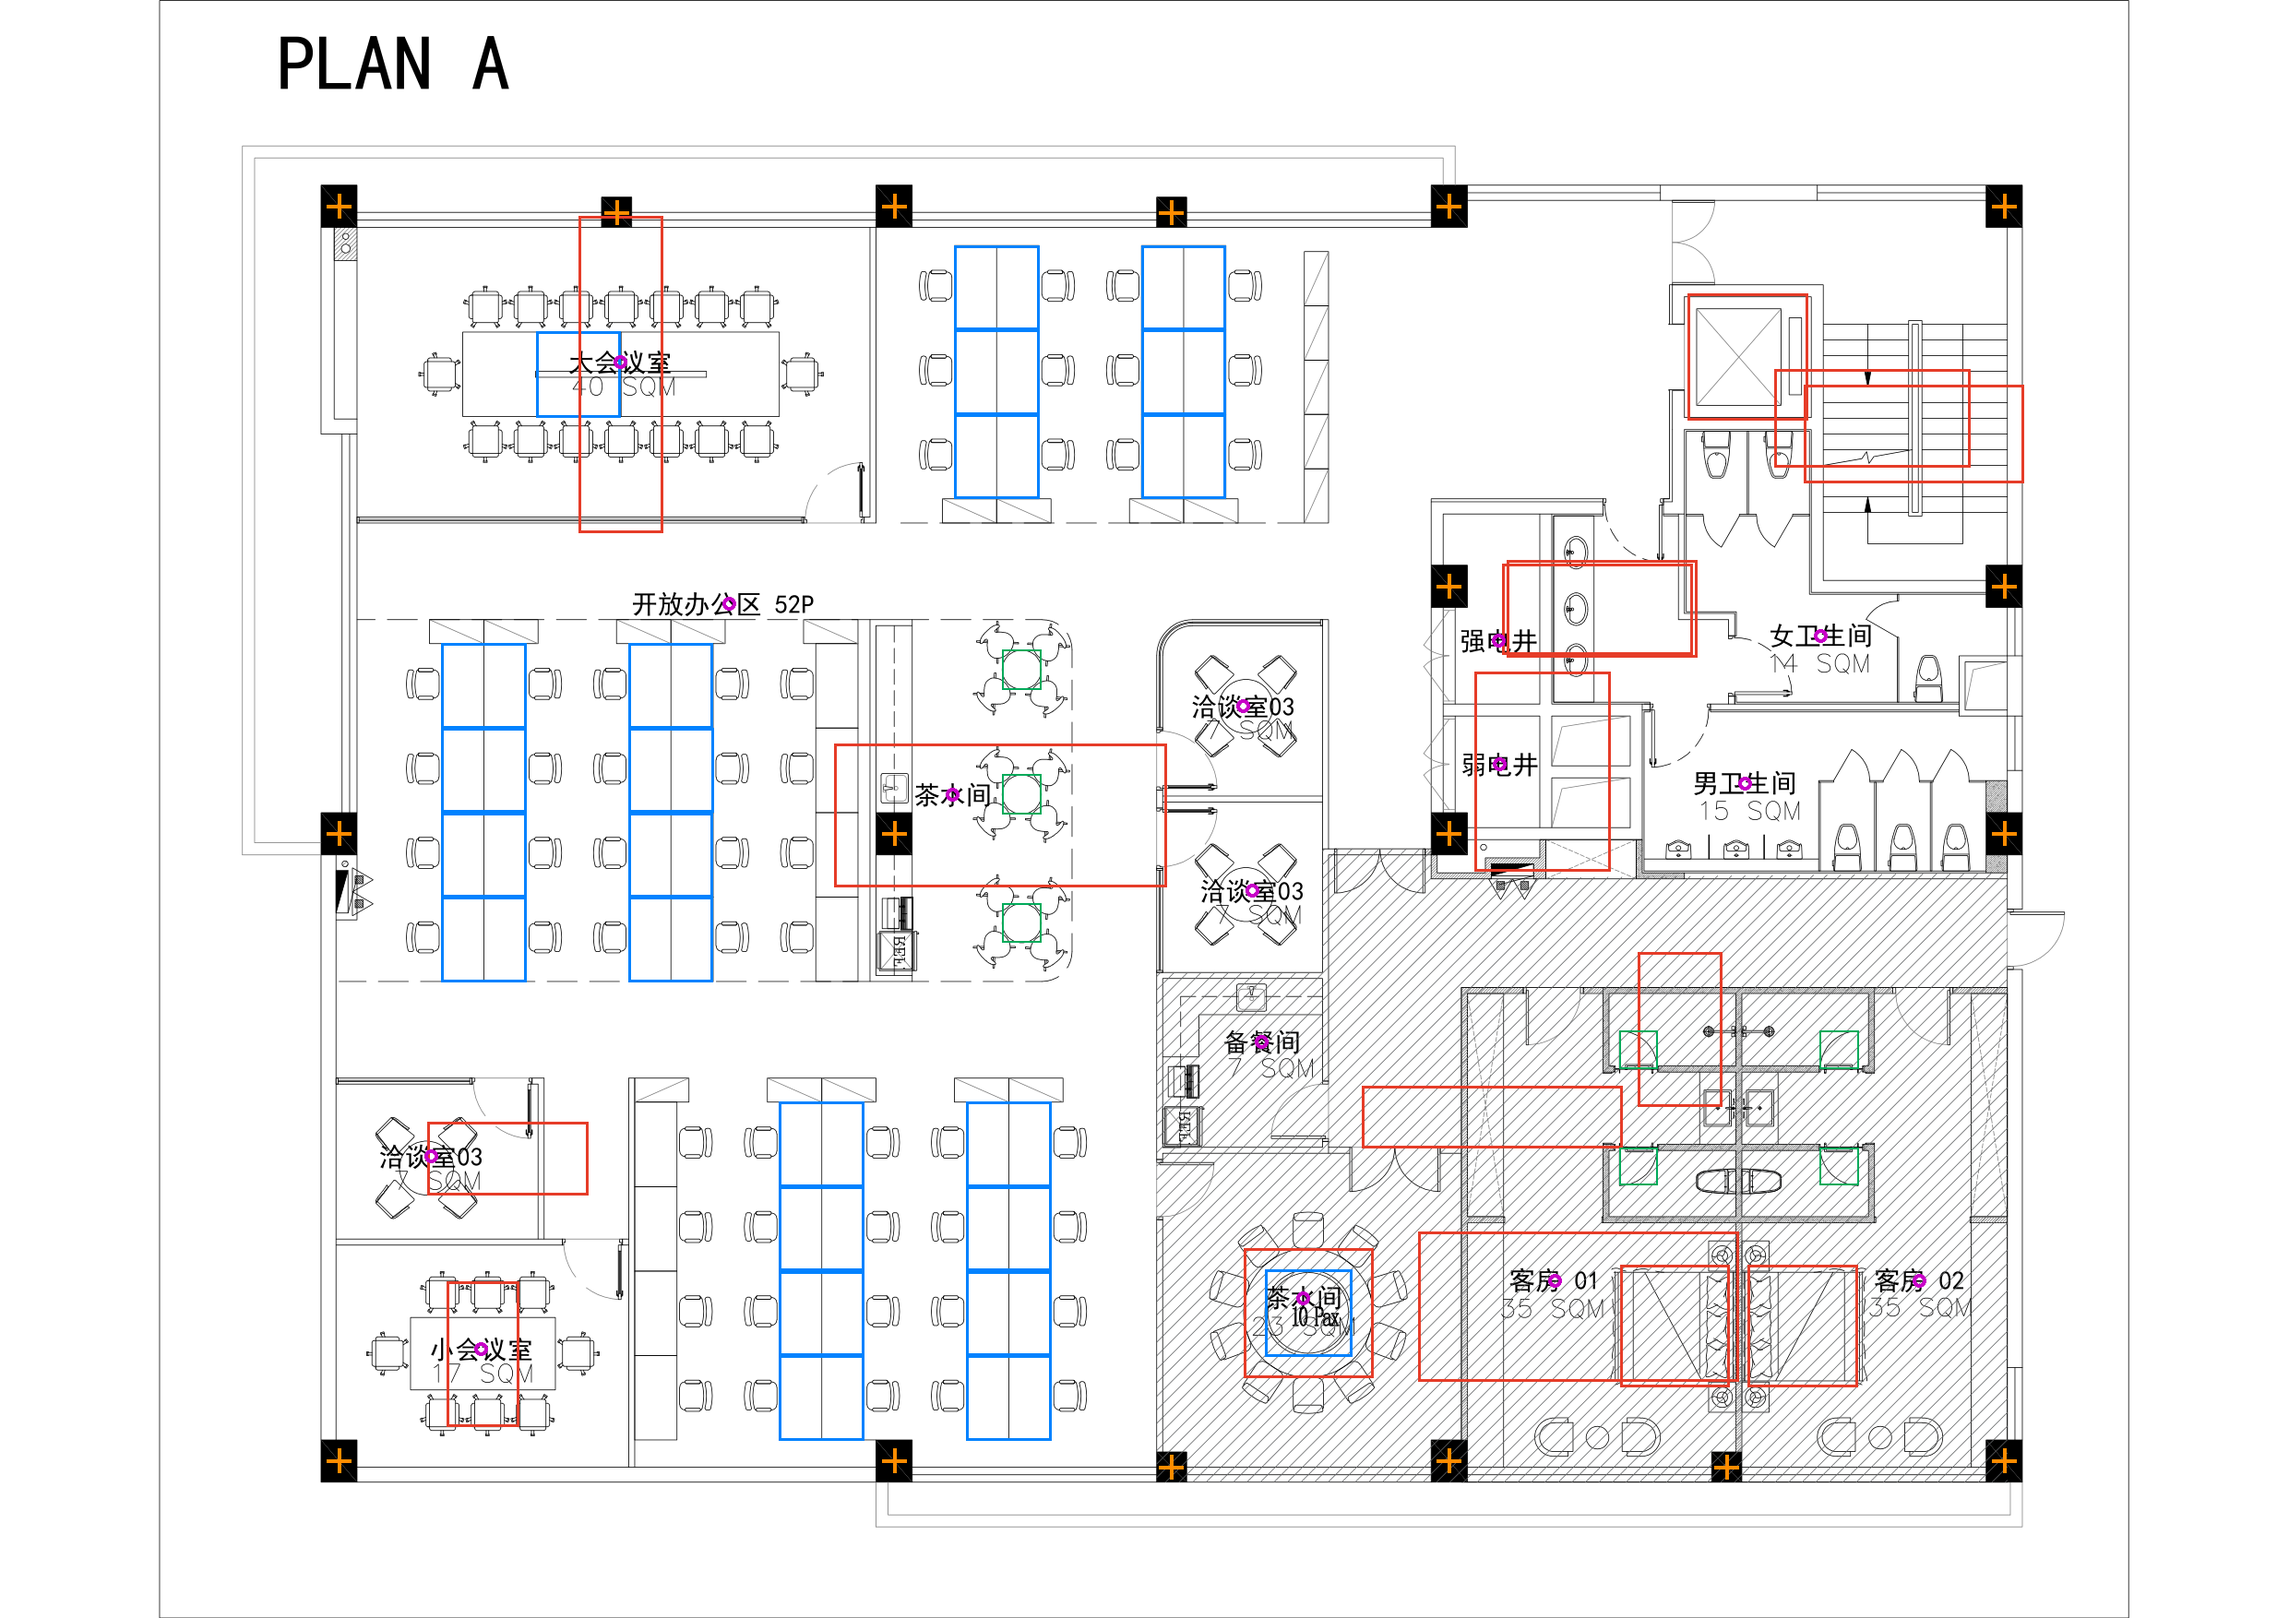
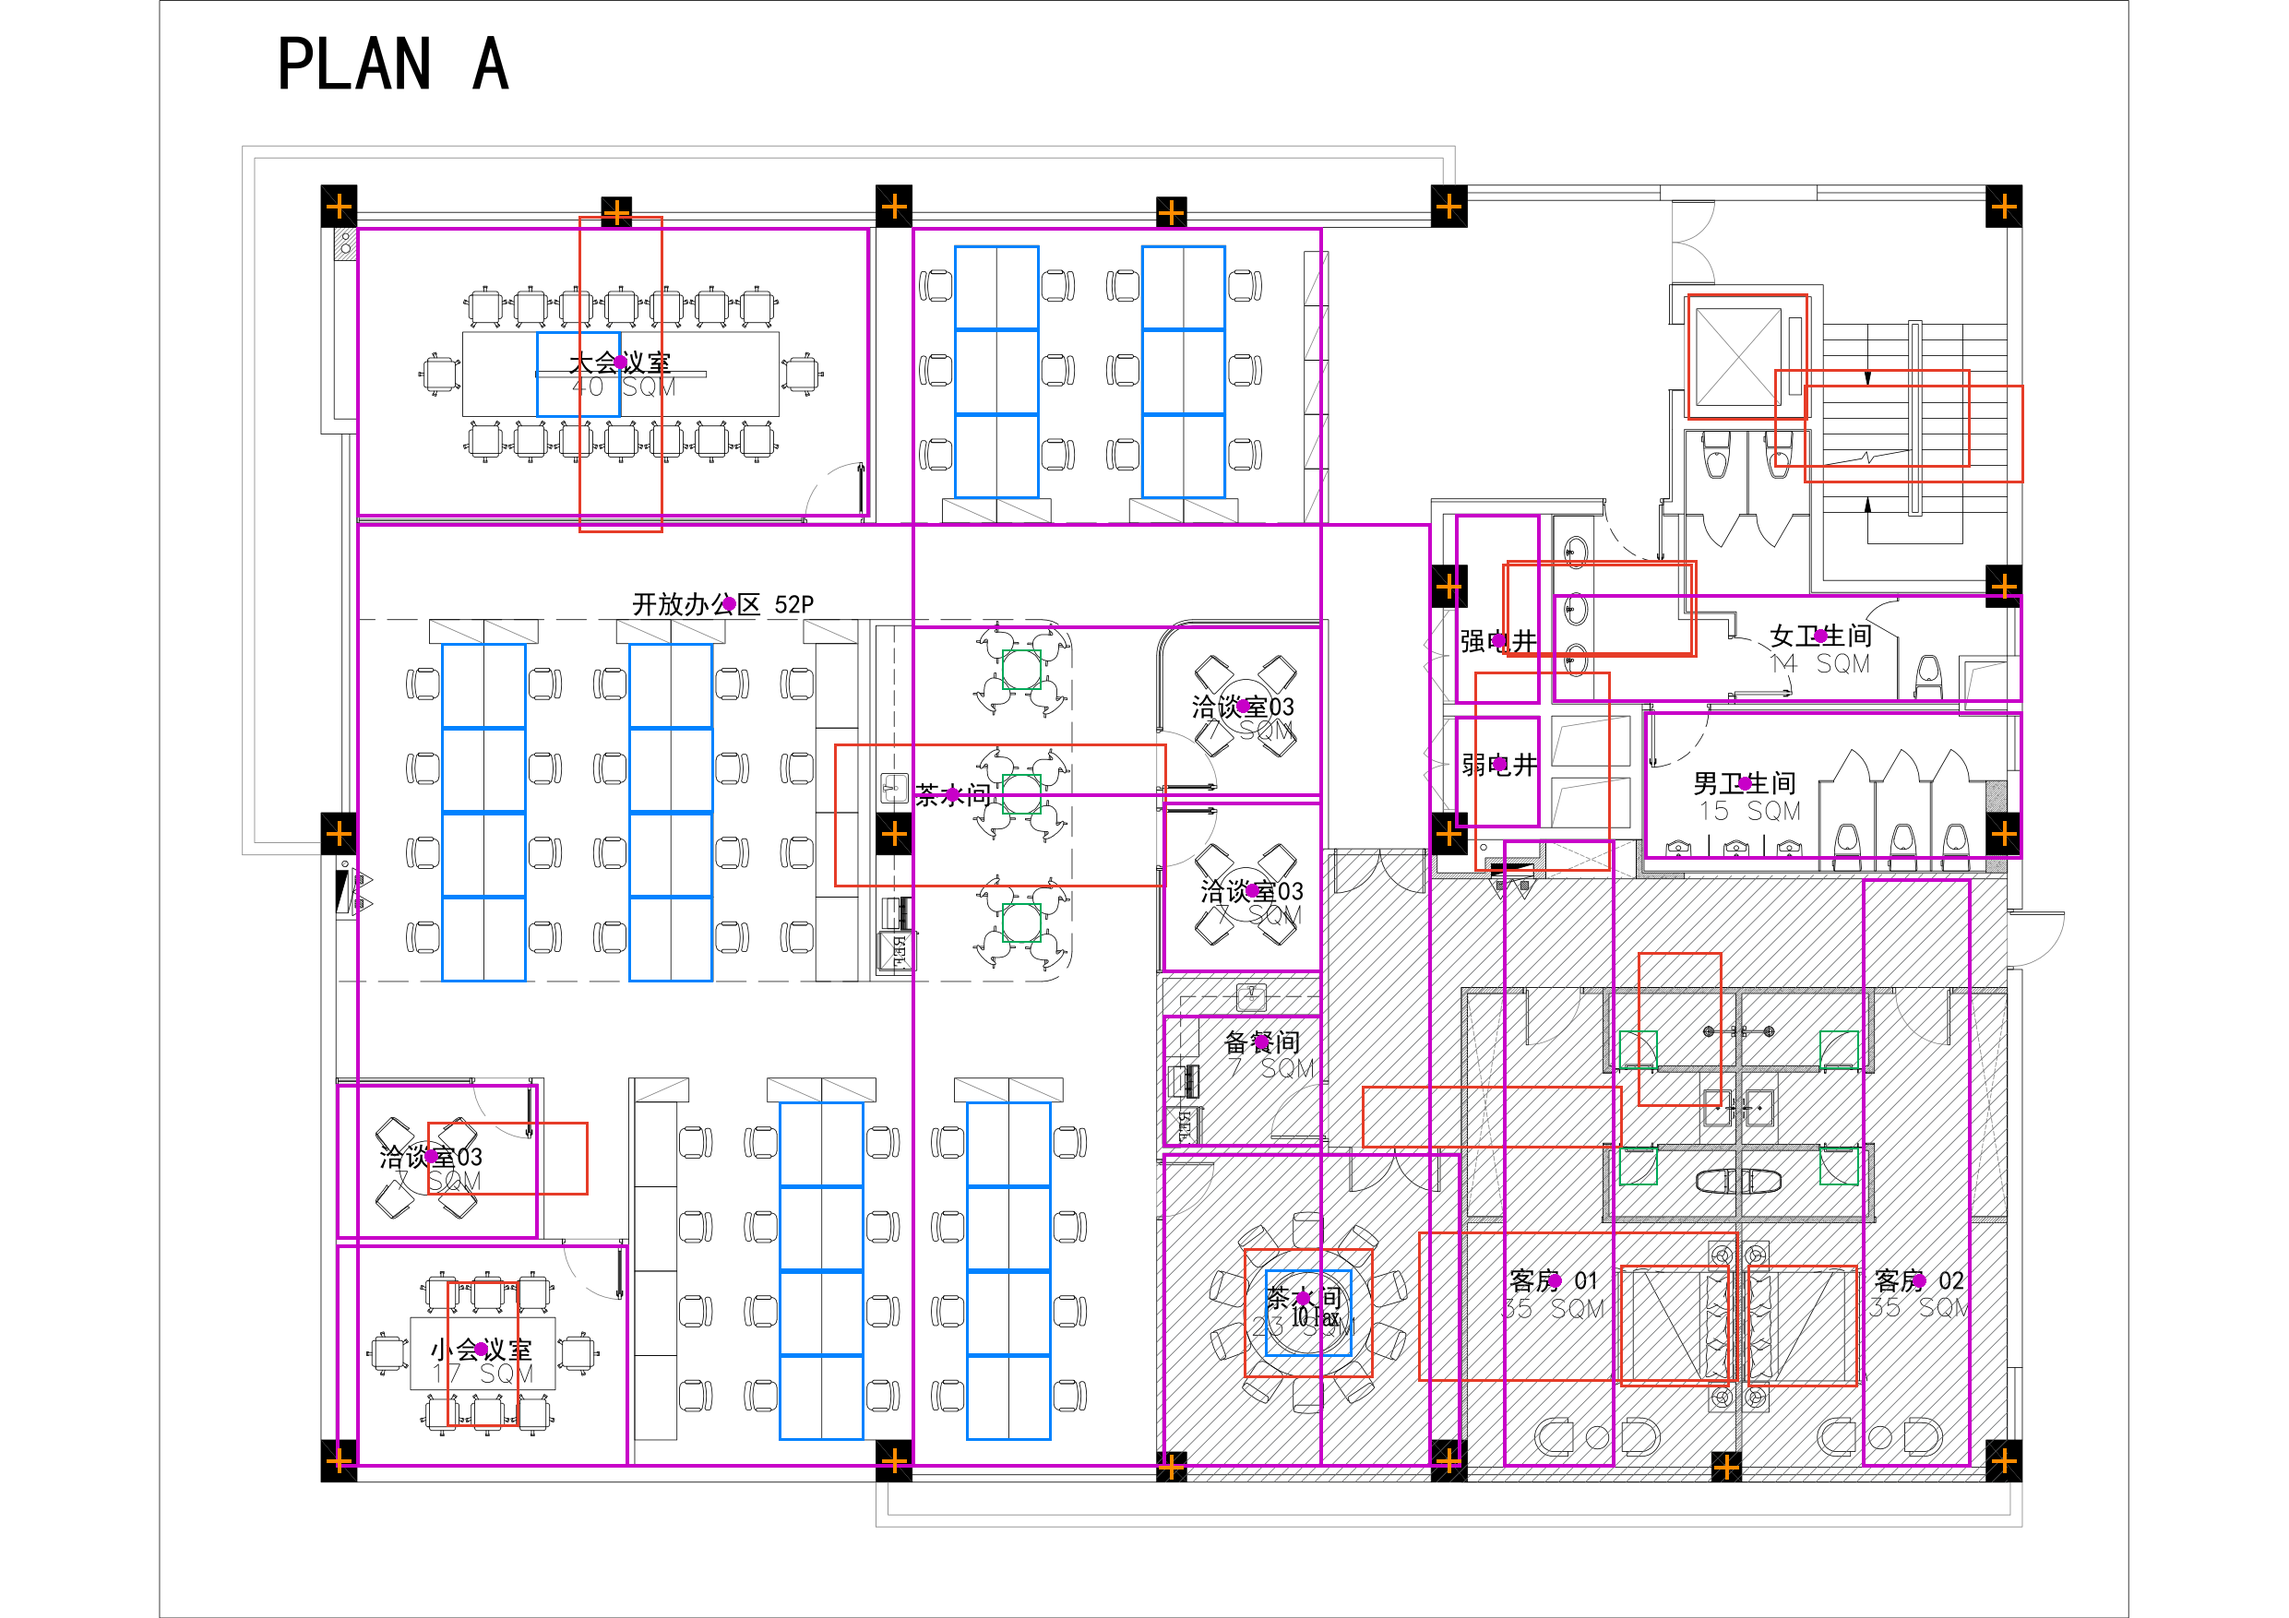
导入器再进一步：从房间名往外长出房间框，并且每次导入都把面积表打出来自查
「后面还要多做很多房间排布方式」—— 所以这一步的重点不是把 PLAN A／B 抠干净，
是把导入做成一条能反复走的路。

新增：从房间名的位置往四个方向长矩形，撞到墙就停。为什么不做完整的平面剖分 ——
这份图是 CAD 导出的线堆，墙、家具、填充、标注混在一起，没有图层可分，硬剖很容易
被一根家具线切碎；「往外长」只需要判断某个方向上最近的线在哪，对线的干净程度
要求低得多，而且长得对不对在套图上一眼能看出来。

只拿长于 1500 mm 的线当墙。不筛之前，大会议室长到会议桌边上就停了（21 ㎡，
图上标 40 SQM）；筛完 40.8 ㎡ ✓。客房也一样，之前被床的轮廓切成 14.7 ㎡。

拿图上自己标的 SQM 对了一遍（10 间有标注）：
  ✓ 大会议室 40.8／40   小会议室 17.9／17   男卫 15.3／15   女卫 13.9／14
    备餐间 5.8／7        洽谈室 7.5／7
  ✗ 客房 01／02 19.2、17.6／35（房内还有卫生间隔墙，长到那儿就停）
    另两间洽谈室 19.2、8.6／7（长过了隔墙）

所以每次导入都把面积表打出来，明说这是「草稿＋人工确认」：对不上的手改
boxes 里那一条。全自动抠一份 CAD 导出的 PDF 不现实，草稿＋核对是能反复走的路。

Claude-Session: https://claude.ai/code/session_01FXL1ZRrbEP5MwJwh8jJ8CU

diff --git a/分析/plan_pdf.py b/分析/plan_pdf.py
@@ -152,6 +152,39 @@ def extract(page, s, c1, c2):
     return rooms, desks, chairs, tables, ws
 
 
+# ---------------------------------------------------------------- 房间
+SHELL = (-300, -350, 27900, 21151)      # 楼层外框，来自 DWG
+
+
+def grow(label, segs, lim=250, wall_min=1500):
+    """从房间名的位置往四个方向长一个矩形，撞到墙就停。
+
+    为什么不做完整的平面剖分：这份图是 CAD 导出的线堆，墙、家具、填充线、
+    标注线混在一起，没有图层可分。硬做剖分很容易被一根家具线切碎。
+    「从标注往外长」只需要判断「这个方向上最近的那条横／竖线在哪」，
+    对线的干净程度要求低得多，长出来对不对一眼就能在套图上看出来。
+    lim＝离标注中心多近的线不算（标注文字自己压着的那几根）。
+    """
+    x, y = label['x'], label['y']
+    # 只拿「够长」的线当墙。短线多半是家具轮廓 —— 之前不筛，大会议室长到桌子边上
+    # 就停了（21 ㎡ 对图注的 40 SQM），客房也被床的轮廓切成 14.7 ㎡（图注 35）。
+    segs = [s for s in segs if s['len'] >= wall_min]
+    hor = [s for s in segs if abs(s['y1'] - s['y2']) < 30
+           and min(s['x1'], s['x2']) - 200 <= x <= max(s['x1'], s['x2']) + 200]
+    ver = [s for s in segs if abs(s['x1'] - s['x2']) < 30
+           and min(s['y1'], s['y2']) - 200 <= y <= max(s['y1'], s['y2']) + 200]
+    up   = [s['y1'] for s in hor if s['y1'] < y - lim] + [SHELL[1]]
+    down = [s['y1'] for s in hor if s['y1'] > y + lim] + [SHELL[3]]
+    left = [s['x1'] for s in ver if s['x1'] < x - lim] + [SHELL[0]]
+    right= [s['x1'] for s in ver if s['x1'] > x + lim] + [SHELL[2]]
+    x0, x1 = max(left), min(right)
+    y0, y1 = max(up), min(down)
+    return {'name': label['name'], 'x0': round(x0), 'y0': round(y0),
+            'x1': round(x1), 'y1': round(y1),
+            'w': round(x1 - x0), 'd': round(y1 - y0),
+            '㎡': round((x1 - x0) * (y1 - y0) / 1e6, 1)}
+
+
 def main():
     doc = pymupdf.open(PDF)
     for i, tag in enumerate('AB'):
@@ -164,12 +197,18 @@ def main():
                     '柱子残差最大mm': round(mx, 1), '柱子残差RMSmm': round(rms, 1)},
             'rooms': rooms, 'desks': desks, 'chairs': chairs,
             'tables': tables, 'walls': walls,
+            'boxes': [grow(r, walls) for r in rooms],
         }
         f = os.path.join(OUT, f'plan_{tag}.json')
         json.dump(data, open(f, 'w', encoding='utf-8'), ensure_ascii=False, indent=1)
         print(f'PLAN {tag}: 配准 1pt={s:.4f}mm 残差最大 {mx:.1f}mm / RMS {rms:.1f}mm  →  {f}')
         print(f'         房间名 {len(rooms)}　工位模块 {len(desks)}　椅 {len(chairs)}　'
               f'桌 {len(tables)}　长线 {len(walls)}')
+        for b in data['boxes']:
+            print(f"           {b['name']:12s} X {b['x0']:6d}~{b['x1']:6d}  Y {b['y0']:6d}~{b['y1']:6d}"
+                  f"  {b['w']:6d}×{b['d']:6d} = {b['㎡']:6.1f} ㎡")
+        print('           ↑ 拿这一列对图上标的 SQM。对不上的手改 boxes 里那一条就行 ——'
+              ' 房间框是「草稿＋人工确认」，不指望全自动。')
         if '--check' in sys.argv:
             check(doc, s, c1, c2, data, tag)
 
@@ -196,9 +235,13 @@ def check(doc, s, c1, c2, data, tag, dpi=150):
     for b in data['desks']:  box(b, (0, 130, 255))
     for b in data['tables']: box(b, (230, 60, 40))
     for b in data['chairs']: box(b, (0, 170, 90), 2)
+    for b in data['boxes']:
+        x0, y0 = pt(b['x0'], b['y0']); x1, y1 = pt(b['x1'], b['y1'])
+        d.rectangle([min(x0, x1), min(y0, y1), max(x0, x1), max(y0, y1)],
+                    outline=(200, 0, 200), width=4)
     for r in data['rooms']:
         x, y = pt(r['x'], r['y'])
-        d.ellipse([x - 7, y - 7, x + 7, y + 7], outline=(200, 0, 200), width=4)
+        d.ellipse([x - 7, y - 7, x + 7, y + 7], fill=(200, 0, 200))
     for x, y in [(it[2] + it[5] / 2, it[3] + it[6] / 2)
                  for it in json.load(open(MODEL, encoding='utf-8'))['items'] if it[1] == 'column']:
         px, py = pt(x, y)                                          # 模型柱心，验配准
